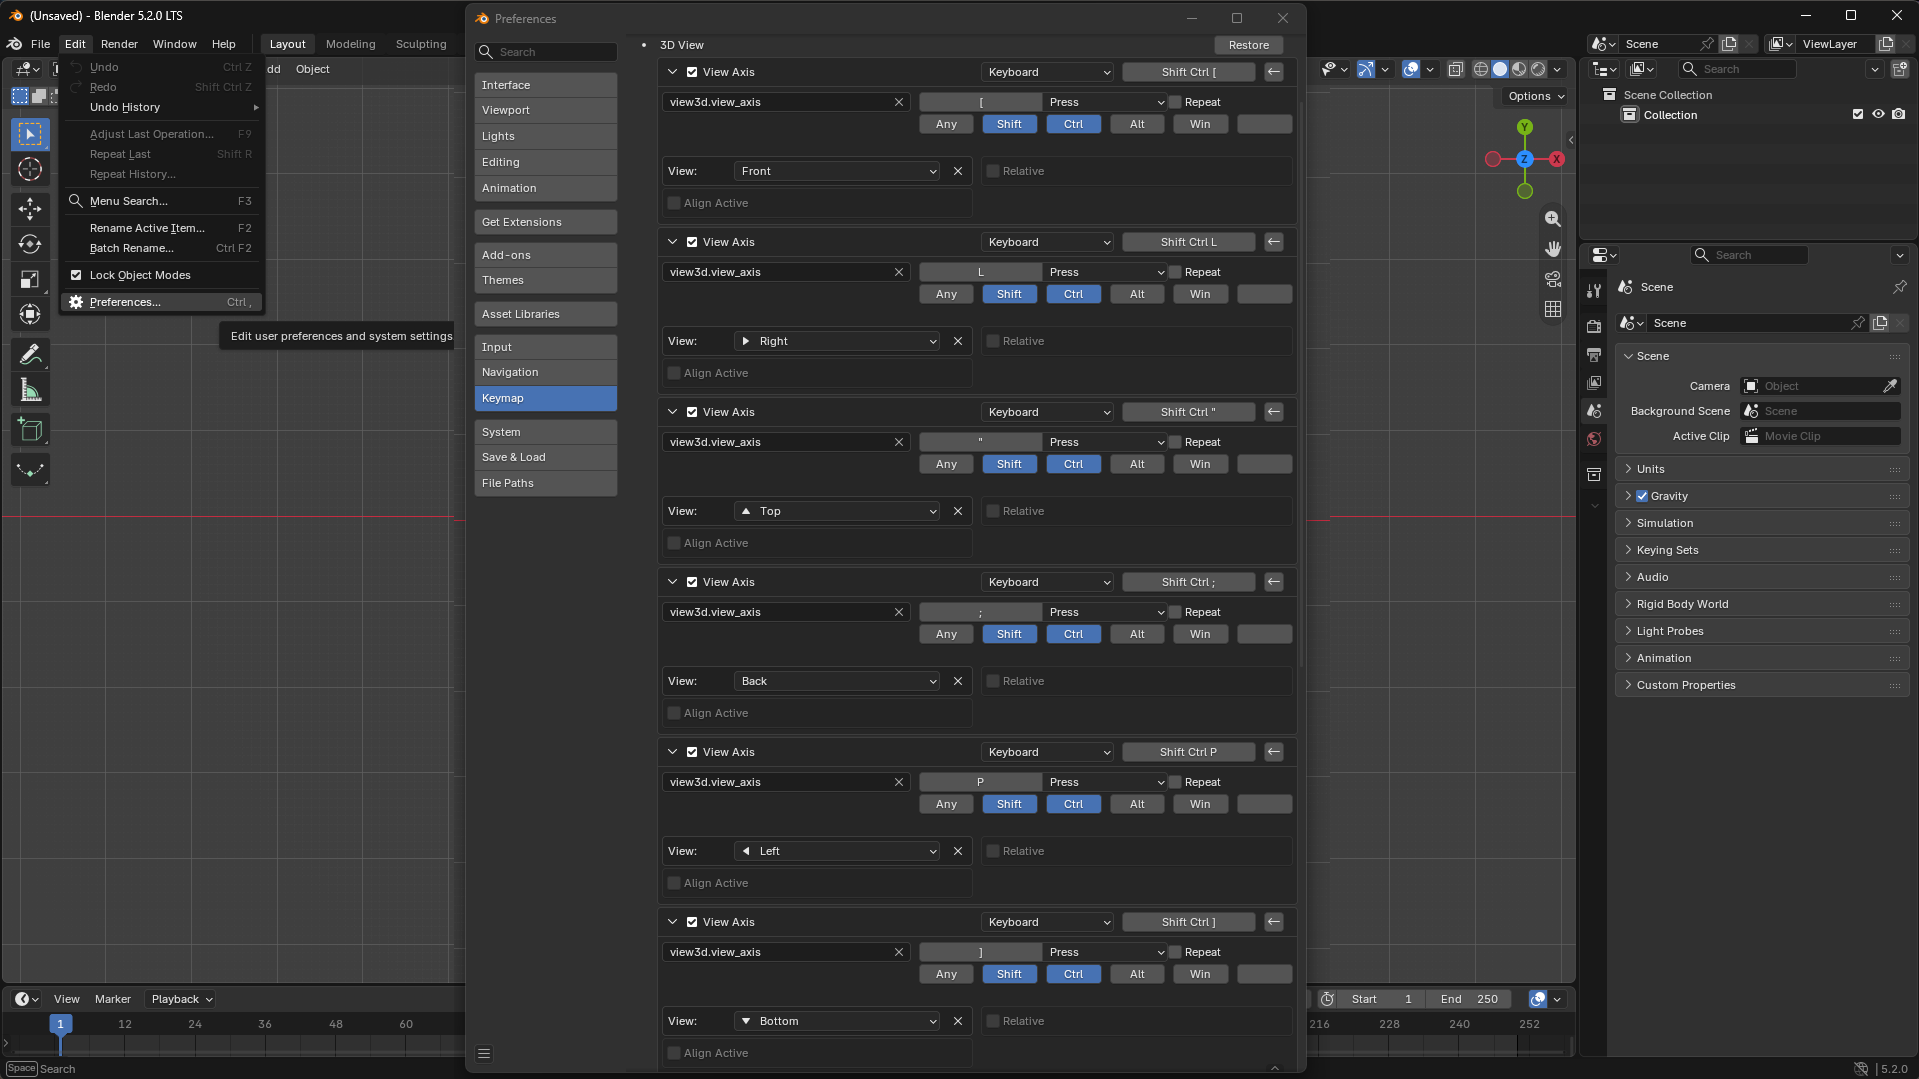
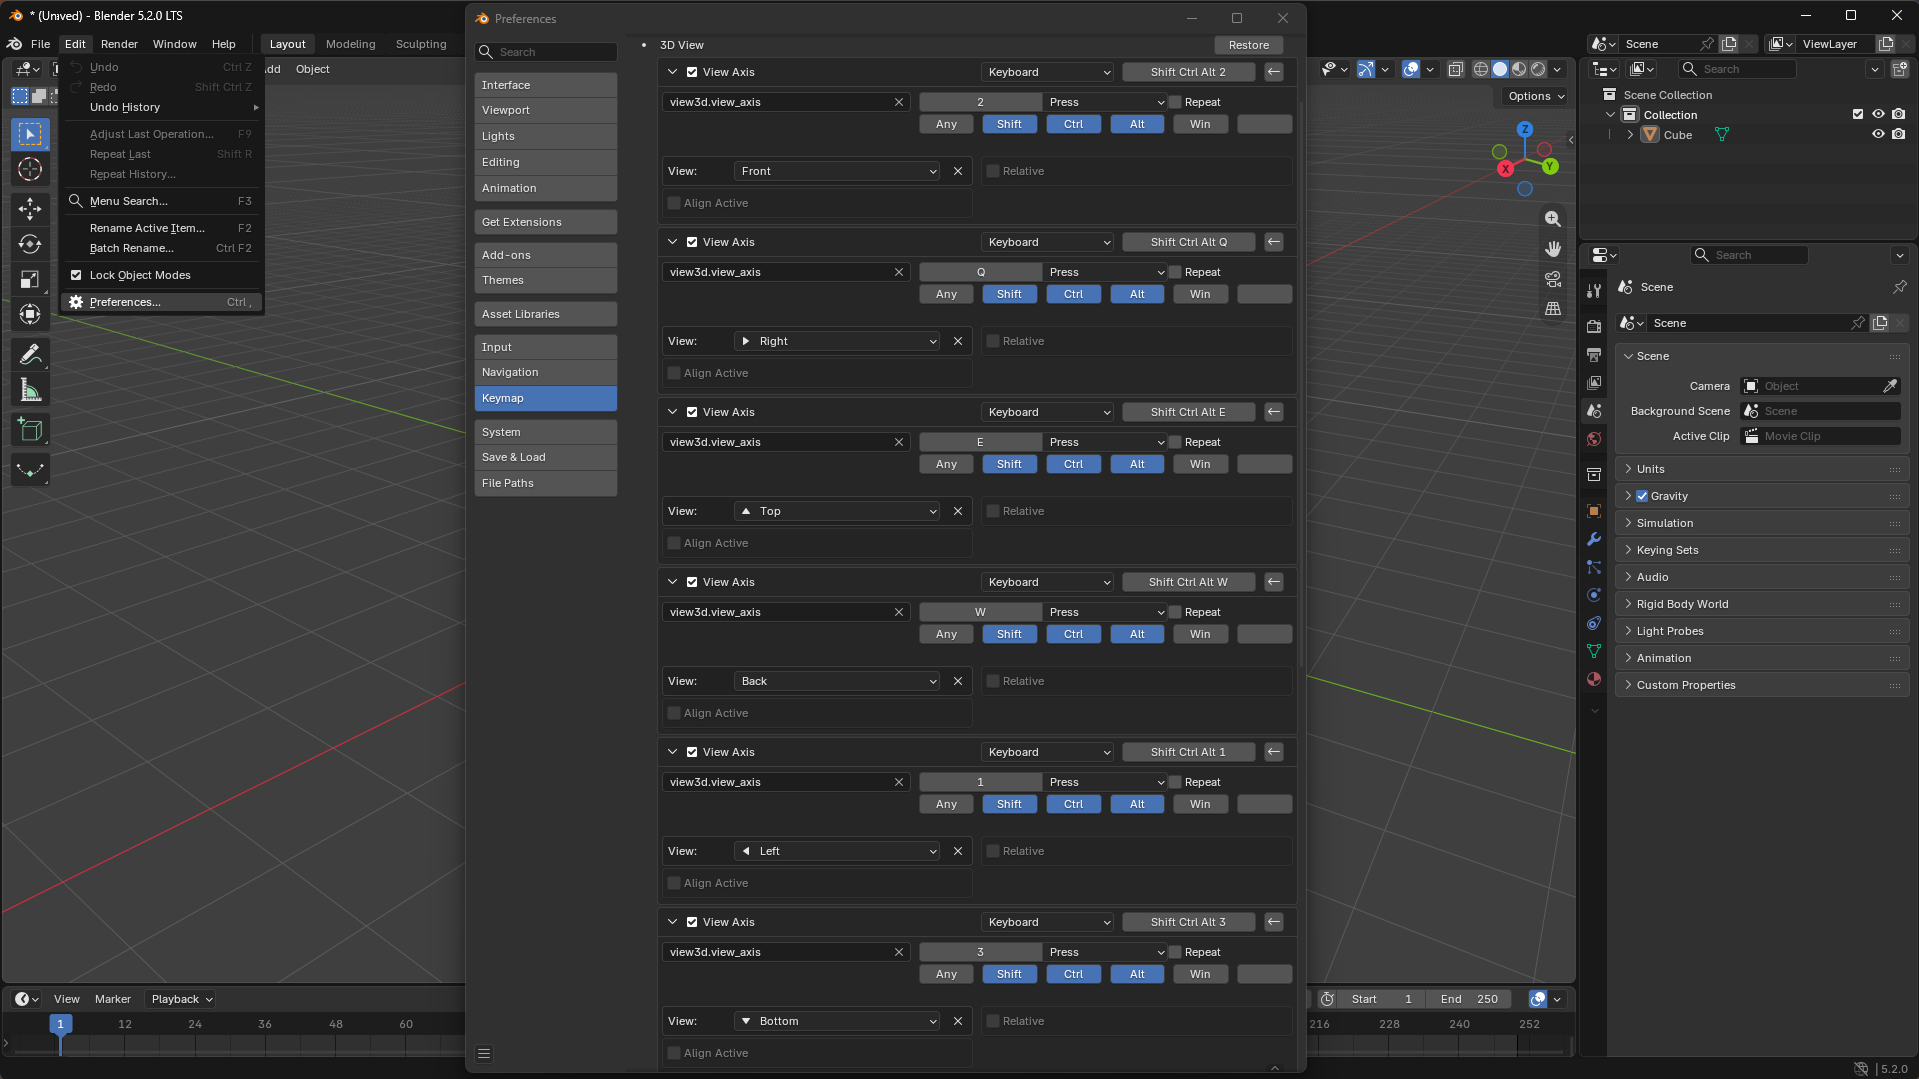
no message

diff --git a/_posts/Blender/2026-07-02-viewport-control.md b/_posts/Blender/2026-07-02-viewport-control.md
@@ -21,17 +21,17 @@ excerpt: "카메라, 3D 커서, Undo, Redo"
 
 • <span class="color-keyword">줌 인/아웃</span> : Ctrl + MMB + 마우스 상하 이동
 
-• <span class="color-keyword">Right Orthographic(X에서 바라보기)</span> : Numpad 3 <span class="color-comment"> 텐키리스 Ctrl + Shift + L </span>
+• <span class="color-keyword">Right Orthographic(X에서 바라보기)</span> : Numpad 3 <span class="color-comment"> 텐키리스 Ctrl + Shift + Alt + Q </span>
 
-• <span class="color-keyword">Left Orthographic(-X에서 바라보기)</span> : Ctrl + Numpad 3 <span class="color-comment"> 텐키리스 Ctrl + Shift + P </span>
+• <span class="color-keyword">Back Orthographic(Y에서 바라보기)</span> : Ctrl + Numpad 1 <span class="color-comment"> 텐키리스 Ctrl + Shift + Alt + W </span>
 
-• <span class="color-keyword">Back Orthographic(Y에서 바라보기)</span> : Ctrl + Numpad 1 <span class="color-comment"> 텐키리스 Ctrl + Shift + ; </span>
+• <span class="color-keyword">Top Orthographic(Z에서 바라보기)</span> : Numpad 7 <span class="color-comment"> 텐키리스 Ctrl + Shift + Alt + E </span>
 
-• <span class="color-keyword">Front Orthographic(-Y에서 바라보기)</span> : Numpad 1 <span class="color-comment"> 텐키리스 Ctrl + Shift + [ </span>
+• <span class="color-keyword">Left Orthographic(-X에서 바라보기)</span> : Ctrl + Numpad 3 <span class="color-comment"> 텐키리스 Ctrl + Shift + Alt + 1 </span>
 
-• <span class="color-keyword">Top Orthographic(Z에서 바라보기)</span> : Numpad 7 <span class="color-comment"> 텐키리스 Ctrl + Shift + " </span>
+• <span class="color-keyword">Front Orthographic(-Y에서 바라보기)</span> : Numpad 1 <span class="color-comment"> 텐키리스 Ctrl + Shift + Alt + 2 </span>
 
-• <span class="color-keyword">Bottom Orthographic(-Z에서 바라보기)</span> : Ctrl + Numpad 7 <span class="color-comment"> 텐키리스 Ctrl + Shift + ] </span>
+• <span class="color-keyword">Bottom Orthographic(-Z에서 바라보기)</span> : Ctrl + Numpad 7 <span class="color-comment"> 텐키리스 Ctrl + Shift + Alt + 3 </span>
 
 
 

diff --git a/_posts/Blender/2026-07-04-edit-mode.md b/_posts/Blender/2026-07-04-edit-mode.md
@@ -16,3 +16,15 @@ categories: Blender
 {: .notice}
 
 • <span class="color-keyword">Tab</span>
+
+
+
+
+# 📌 Vertex, Edge, Face
+{: .notice}
+
+• <span class="color-keyword">Vertex</span> : 1
+
+• <span class="color-keyword">Edge</span> : 2
+
+• <span class="color-keyword">Face</span> : 3
